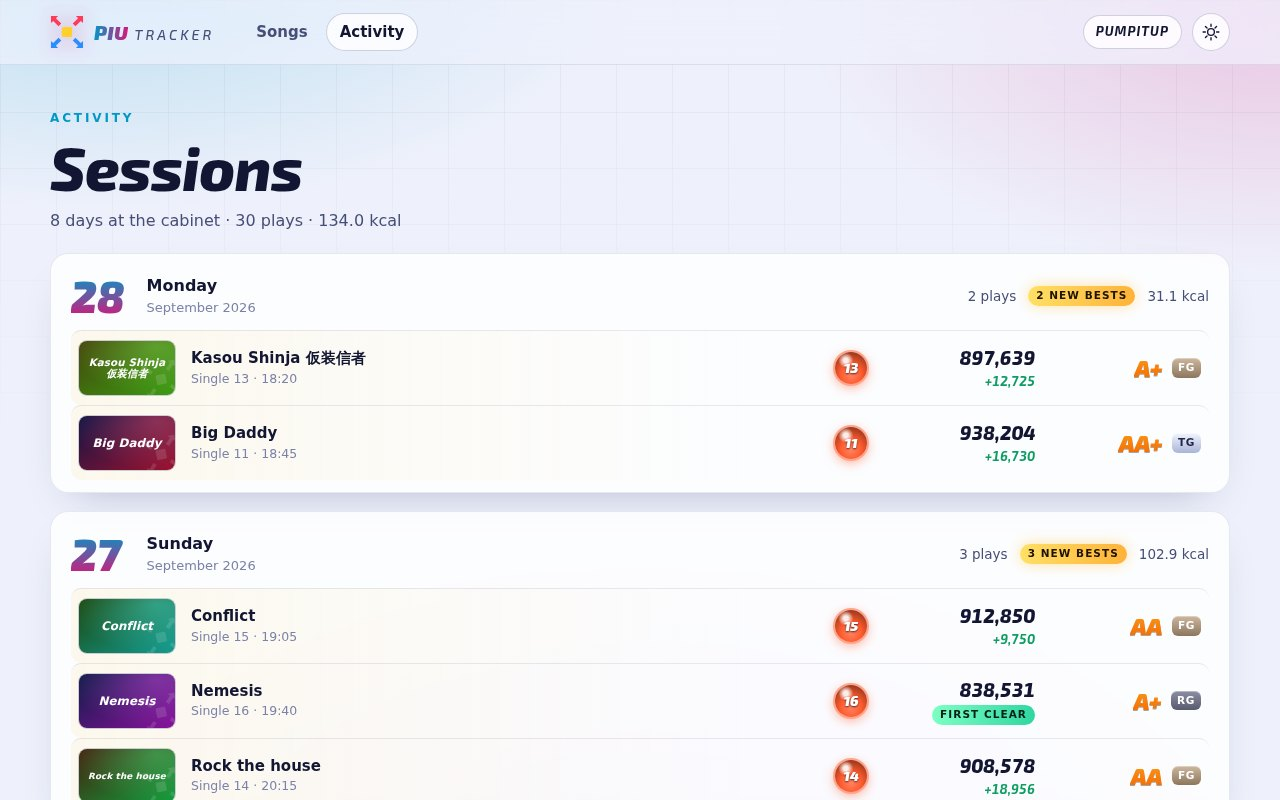
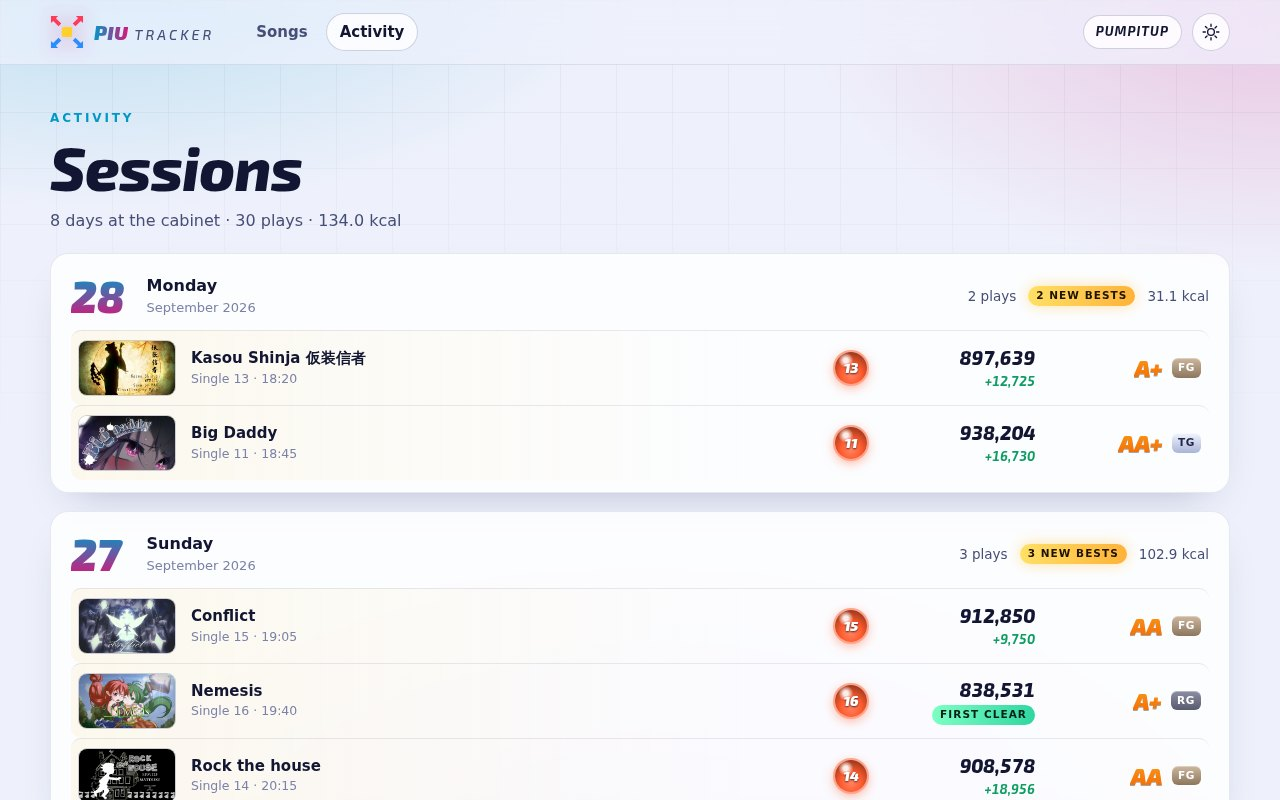
Show real jacket art in the README screenshots
Retakes the screenshots with the jackets the app downloaded rather than
its generated placeholders, drops the note that said they were
placeholders, and trims the README's worked example sentence.

Claude-Session: https://claude.ai/code/session_01KPGCy3AHs1P4uz8RzqXNLu

Changed region(s): [[0.0625, 0.75, 0.1562, 1.0], [0.0625, 0.4062, 0.1562, 0.5938]]

diff --git a/README.md b/README.md
@@ -14,8 +14,6 @@ You log each result screen as a few lines of YAML in your Ansible variables. The
 | --- | --- |
 | ![Song page](docs/screenshots/song.jpg) | ![Activity page](docs/screenshots/activity-light.jpg) |
 
-The screenshots show the generated placeholder art. With art fetching on, the real jackets appear instead.
-
 ## Logging a result screen
 
 This is what one play looks like in the Ansible variables, taken from a real result screen:
@@ -42,8 +40,6 @@ Every entry is checked before it is shown. A deploy with a mistake in it fails a
 - **Score against judgments.** When the judgments and max combo are both given, the score must match what the game would award for them:
 
   `1,000,000 × (0.995 × (Perfect + 0.6·Great + 0.2·Good + 0.1·Bad) + 0.005 × MaxCombo) / Notes`
-
-  The Big Daddy screen above gives exactly 938,204.
 - **Grade against score.** A `grade`, if given, must match the Phoenix grade table. Grades are worked out from the score otherwise.
 - **Everything else:** chart notation, dates, plate names, and unknown keys (such as `perfects:`) are rejected with an explanation.
 
@@ -75,7 +71,7 @@ For each song, art is looked up in this order and downloaded once into the data 
 4. **The [PIU Fandom wiki](https://pumpitup.fandom.com):** the lead image of the song's page.
 5. **A generated placeholder** (gradient + title), until something is found.
 
-Songs with no art found are looked up again after a week, or straight away when their `image` changes. Network errors are not remembered, so they are simply retried on the next start. Jacket art is © Andamiro, so it is only ever cached on your server and never committed here or baked into the image.
+Songs with no art found are looked up again after a week, or straight away when their `image` changes. Network errors are not remembered, so they are simply retried on the next start. Jacket art is © Andamiro: the app only caches it on your server and never bakes it into the image.
 
 ## Configuration
 
